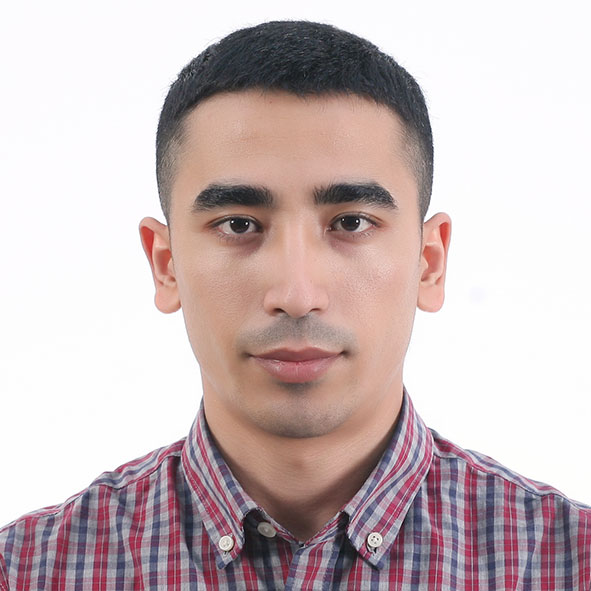
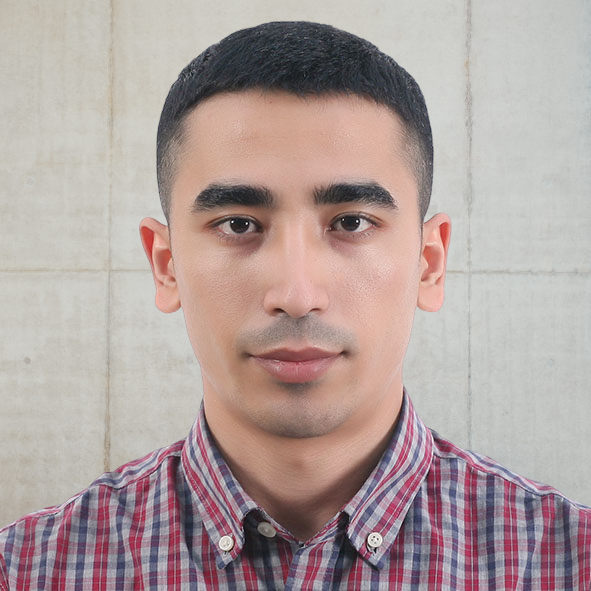
about section updated

diff --git a/app/components/About.jsx b/app/components/About.jsx
@@ -1,10 +1,28 @@
+import { assets } from "@/assets/assets";
+import Image from "next/image";
 import React from "react";
 
 const About = () => {
   return (
     <div id="about" className="w-full px-[12%] py-10 scroll-mt-20">
-      <h4>Introduction</h4>
-      <h2>About me</h2>
+      <h4 className="text-center mb-2 text-lg font-Ovo">Introduction</h4>
+      <h2 className="text-center text-5xl font-Ovo">About me</h2>
+
+      <div className="flex w-full flex-col lg:flex-row items-center gap-20 my-20">
+        <div className="w-64 sm:w-80 rounded-3xl max-w-none">
+          <Image src={assets.profile_img} alt="user" className="w-full rounded-3xl" />
+        </div>
+        <div className="flex-1">
+          <p className="mb-10 max-w-2xl font-Ovo">
+            I am an aspriring full stack developer with a focus on customer needs and business
+            goals. I am passionate in crafting clean, functional and user-friendly digital
+            experiences. I specialize in front-end and back-end development and enjoy turning ideas
+            into reality through code. With a keen eye for detail and a commitment to best
+            practices, I build responsive, performant, and accessible websites. Let's create
+            something amazing together!
+          </p>
+        </div>
+      </div>
     </div>
   );
 };

diff --git a/app/components/Navbar.jsx b/app/components/Navbar.jsx
@@ -22,7 +22,7 @@ const Navbar = () => {
       <nav className="w-full fixed px-5 lg:px-8 xl:px-[8%] py-4 flex items-center justify-between z-50">
         <div className="flex items-center">
           <h1 className="font-semibold text-3xl">Berd</h1>
-          <span className="inline-block h-2 w-2 rounded-full bg-red-500 mt-4 ml-0.5"></span>
+          <span className="inline-block h-2 w-2 rounded-full bg-red-500 mt-4 ml-1"></span>
         </div>
 
         <ul className="hidden md:flex items-center gap-6 lg:gap-8 rounded-full px-12 py-3 bg-white shadow-sm bg-opacity-50">
